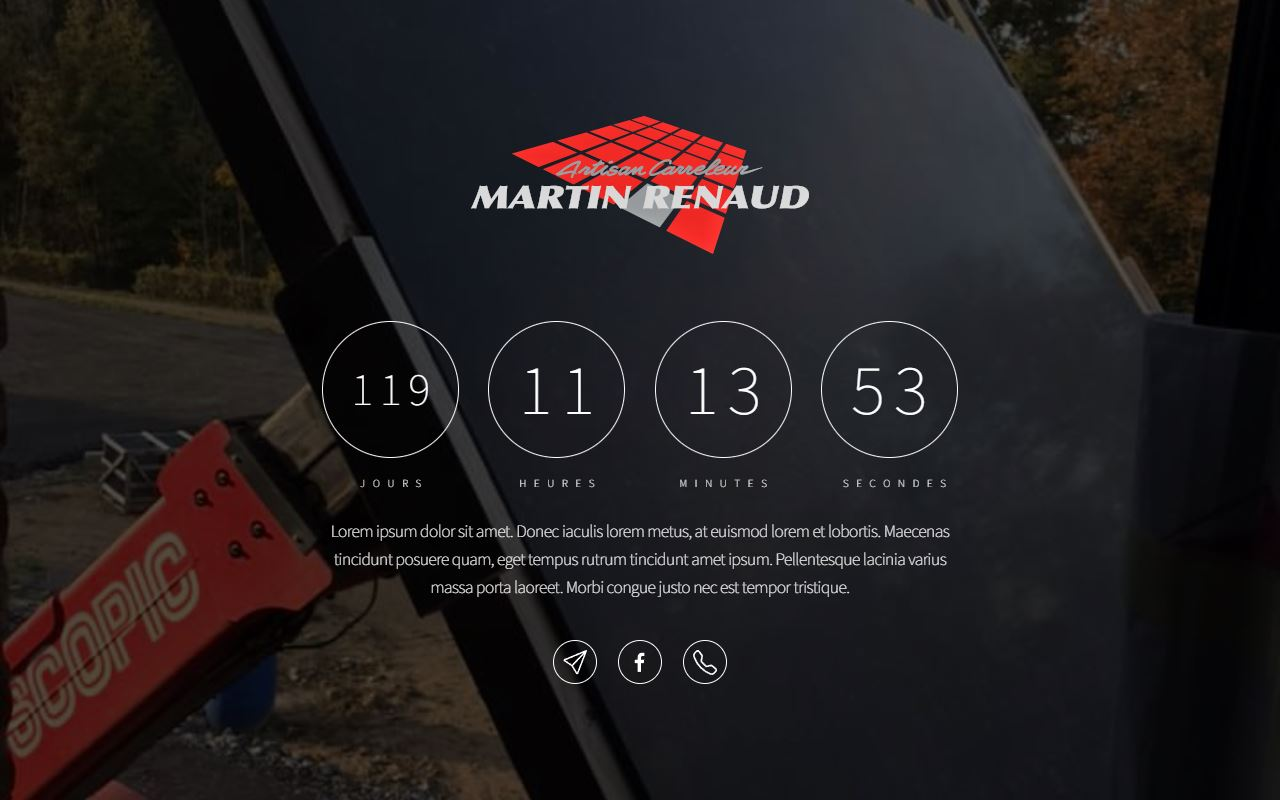
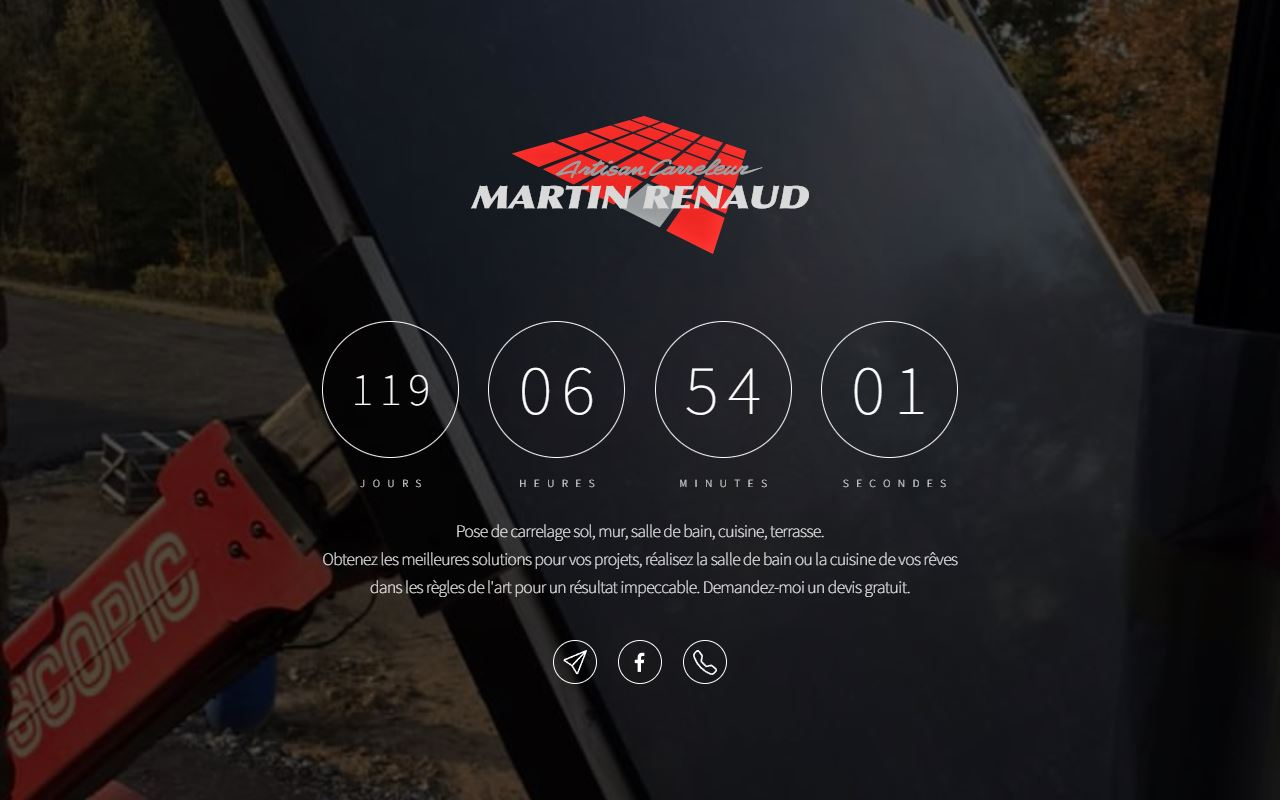
Updated cie branding by text and meta

diff --git a/index.html b/index.html
@@ -14,7 +14,7 @@
     <meta
       name="description"
       content="Je mets mes 20 années d'expérience comme carreleur à votre service
-       pour créer ou rénover vos salles de bains, cuisines… Demandez-moi vite un devis gratuit."
+       pour créer ou rénover vos salles de bains, cuisines… Demandez-moi un devis gratuit."
     />
     <!-- The Open Graph protocol -->
     <!-- Documentation https://ogp.me/ -->
@@ -24,8 +24,7 @@
     <meta property="og:type" content="website" />
     <meta
       property="og:description"
-      content="Je mets mes 20 années d'expérience comme carreleur à votre service
-    pour créer ou rénover… Demandez-moi un devis gratuit."
+      content="Je mets mes 20 années d'expérience à votre service… Demandez-moi un devis gratuit."
     />
     <meta
       property="og:image"
@@ -230,8 +229,8 @@
             /* url("assets/images/bg.jpg?v=179e0d57"); */
             /* url("assets/images/bg_mr_logo.jpg"); */
             /* url("assets/images/bg_rm_bath.jpg"); */
-            /* url("assets/images/bg_rm_bath2.jpg"); */
-            url("assets/images/bg_rm_bath33.jpg");
+            url("assets/images/bg_rm_bath2.jpg");
+            /* url("assets/images/bg_rm_bath33.jpg"); */
         background-position: 0% 0%, center;
         background-repeat: repeat, no-repeat;
         background-size: auto, cover;
@@ -910,10 +909,8 @@
             <ul></ul>
           </div>
           <p id="text02">
-            Lorem ipsum dolor sit amet. Donec iaculis lorem metus, at euismod
-            lorem et lobortis. Maecenas tincidunt posuere quam, eget tempus
-            rutrum tincidunt amet ipsum. Pellentesque lacinia varius massa porta
-            laoreet. Morbi congue justo nec est tempor tristique.
+            <!-- <br> -->
+            Pose de carrelage sol, mur, salle de bain, cuisine, terrasse. <br> Obtenez les meilleures solutions pour vos projets, réalisez la salle de bain ou la cuisine de vos rêves dans les règles de l'art pour un résultat impeccable. Demandez-moi un devis gratuit.
           </p>
           <ul id="icons01" class="icons">
             <li>
@@ -963,7 +960,7 @@
               >
             </li>
             <li>
-              <a class="n03" href="tel:+32474752657">
+              <a class="n03" href="tel:+32497465181">
                 <svg
                   xmlns="http://www.w3.org/2000/svg"
                   width="30"
